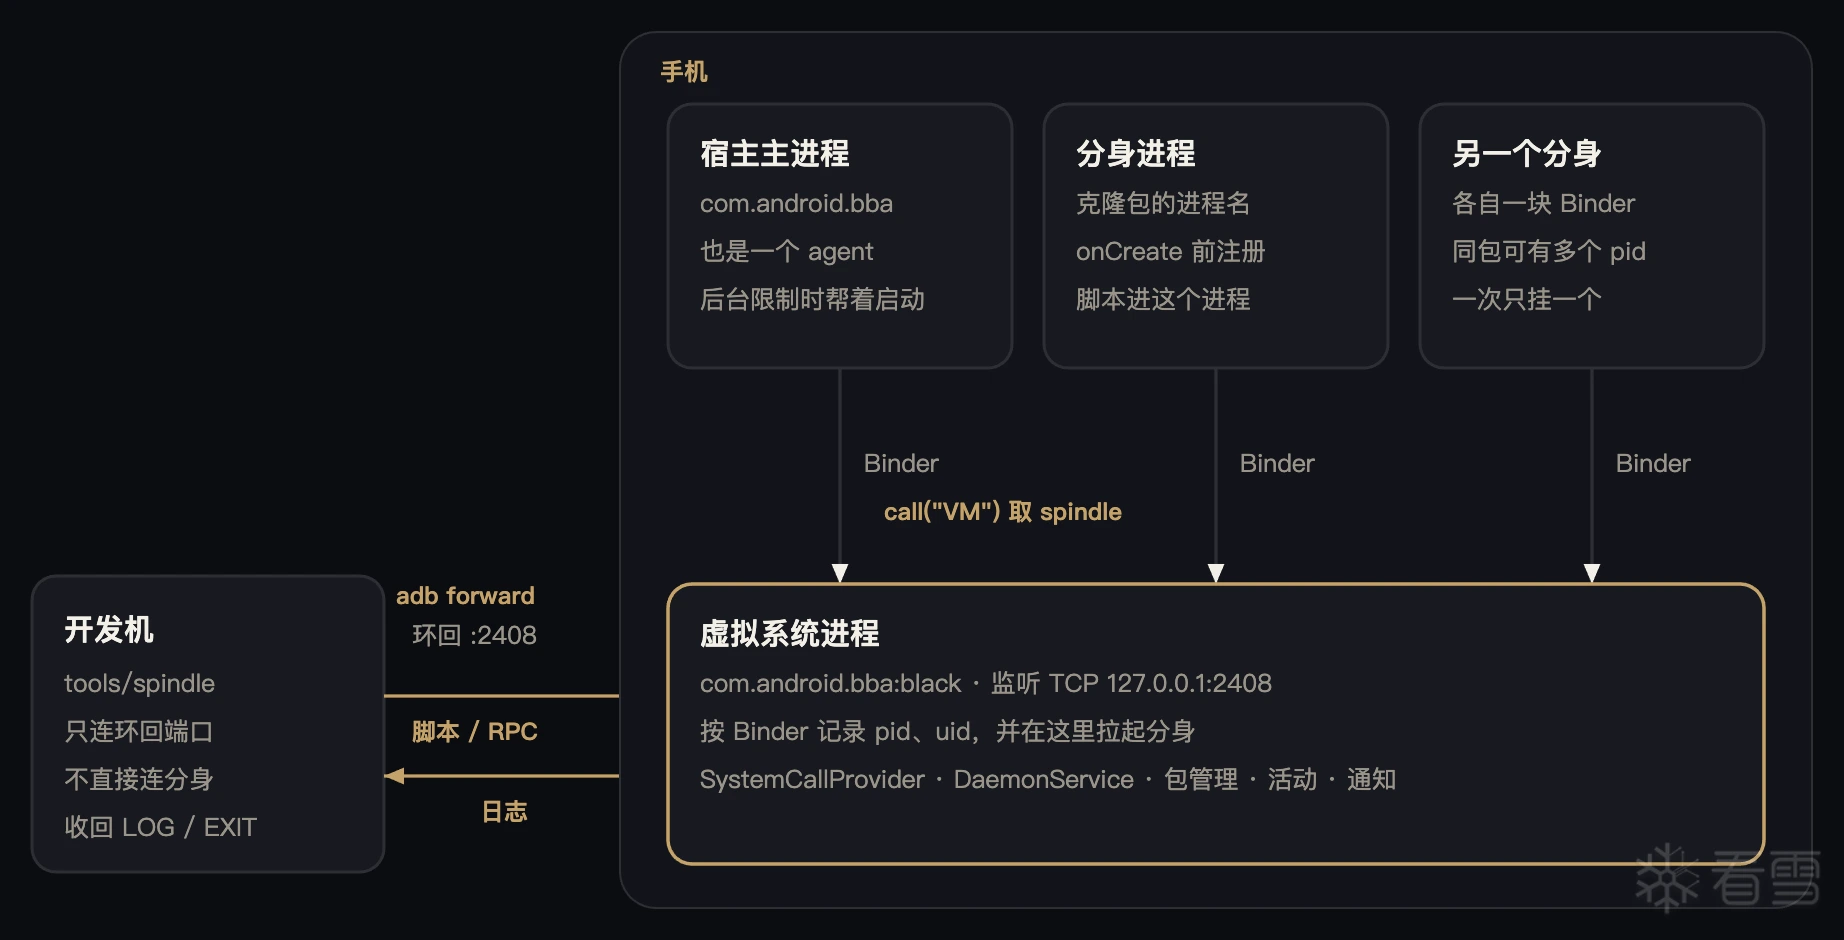
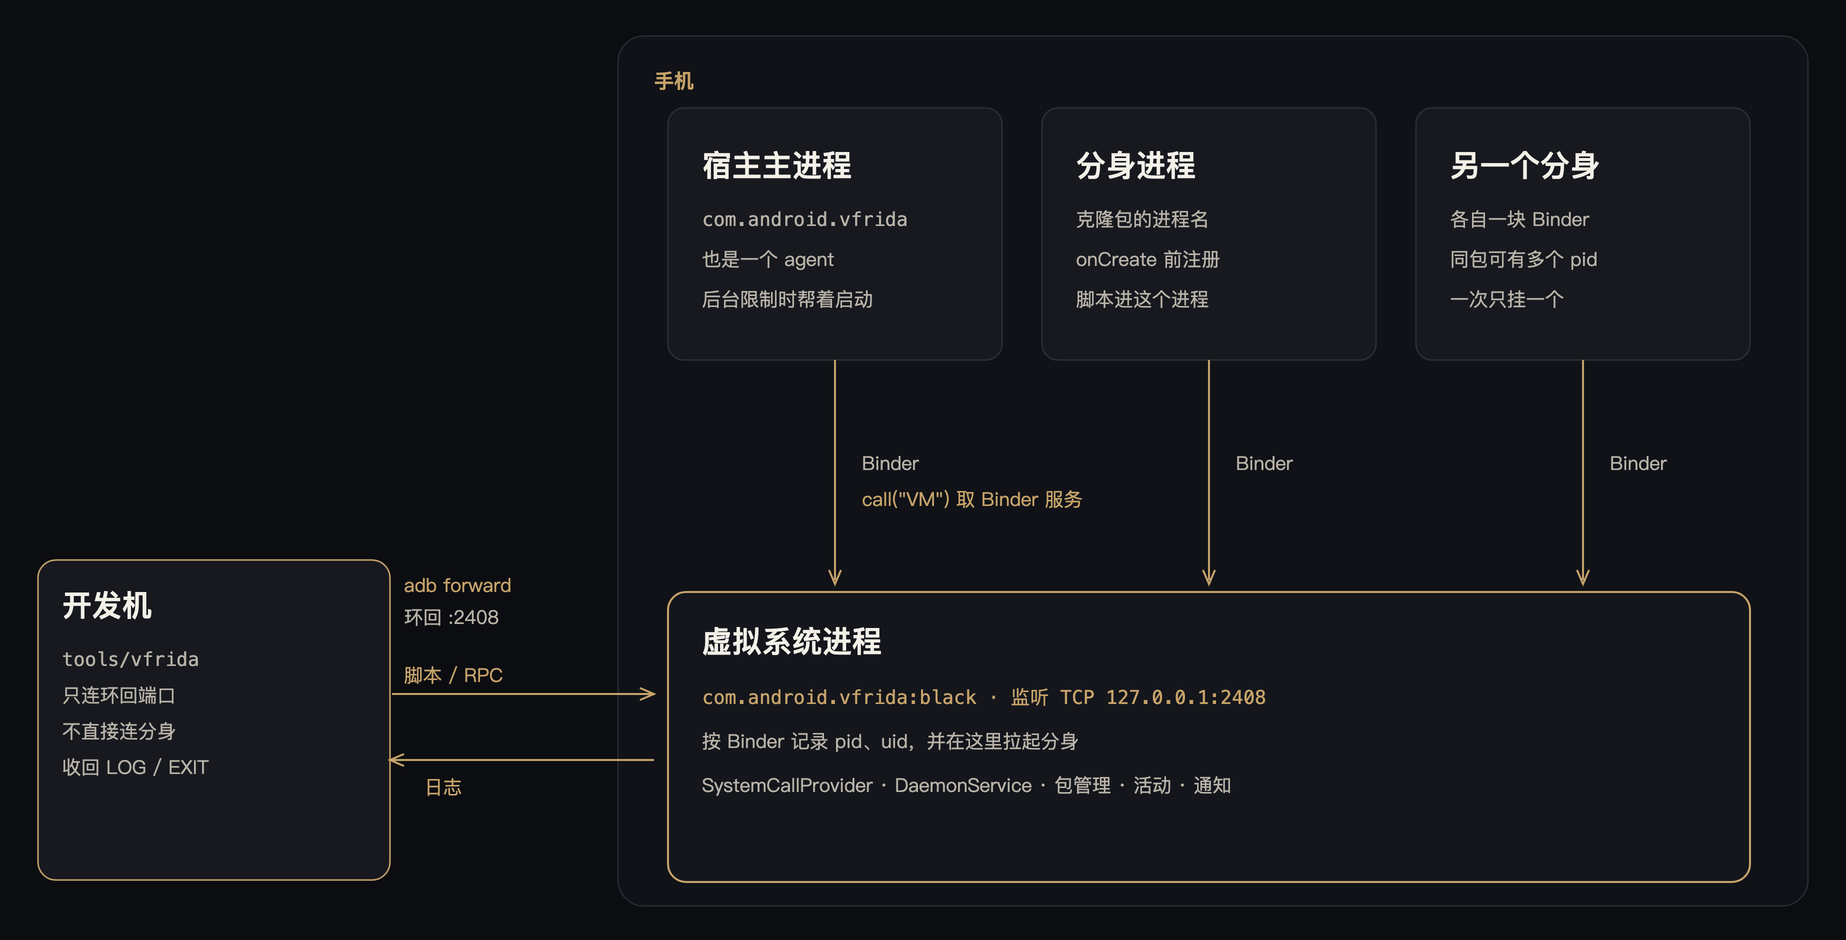
Drop the cover image and redraw the architecture diagram with the new names.

diff --git a/README.md b/README.md
@@ -1,7 +1,5 @@
 [中文](README.zh-CN.md)
 
-![vFrida — a Frida-style CLI inside a BlackBox sandbox](docs/vfrida-cover.jpg)
-
 # vFrida
 
 `tools/vfrida` is the command-line client. It sends a script into the vFrida host or into one cloned app and prints the logs back. The flags follow the Frida command line: spawn with `-f`, attach with `-n` or `-p`, load a file with `-l`.

diff --git a/README.zh-CN.md b/README.zh-CN.md
@@ -1,6 +1,5 @@
 [English](README.md)
 
-![vFrida — 放进 BlackBox 沙箱的类 Frida 命令行](docs/vfrida-cover.jpg)
 
 # vFrida
 
